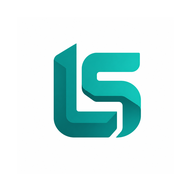
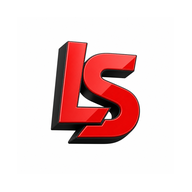
Switch LabSynch brand to Red + Black shading — keep 07 Interlocked 3D LS design [deploy]
- Keep exact 07 Interlocked 3D LS shape, only recolor teal -> red #b91c1c/#ef4444 + black #111111 shading
- All icons regenerated: icon-192/512, favicon 16/32, apple-touch 180, favicon.ico, og-image 1200x630, desktop tray, android mipmap mdpi->xxxhdpi, mobile icons
- Theme colors: manifest theme_color #b91c1c bg #111111, index.html/portal.html meta theme-color red
- styles.css: --brand #b91c1c, --brand-2 #111111, --brand-soft #fee2e2, ink black, gradients red->dark red/black
- Desktop: bubble.html, main.js, renderer index.html teal -> red/black
- Mobile: App.js teal -> red, app.json splash bg red
- Portal hero gradient red/black

Changed region(s): [[0.25, 0.1875, 0.75, 0.75]]

diff --git a/apps/desktop/renderer/index.html b/apps/desktop/renderer/index.html
@@ -5,46 +5,46 @@
 <meta name="viewport" content="width=device-width, initial-scale=1.0">
 <title>LabSynch Alerts</title>
 <style>
-  :root { --teal:#0f766e; --teal-dark:#115e59; --ink:#111827; --soft:#6b7280; --bg:#f3f5f9; --border:#e5e7eb; }
+  :root { --brand:#b91c1c; --brand-dark:#7f1d1d; --ink:#111827; --soft:#6b7280; --bg:#f3f5f9; --border:#e5e7eb; }
   * { box-sizing:border-box; margin:0; padding:0; }
   body { font-family:-apple-system,"Segoe UI",Roboto,sans-serif; background:var(--bg); color:var(--ink); height:100vh; overflow:auto; }
   .wrap { padding:20px 18px; display:flex; flex-direction:column; min-height:100vh; }
-  .brand { font-size:28px; font-weight:800; color:var(--teal); text-align:center; letter-spacing:.5px; }
+  .brand { font-size:28px; font-weight:800; color:var(--brand); text-align:center; letter-spacing:.5px; }
   .tag { font-size:13px; color:var(--soft); text-align:center; margin:4px 0 14px; }
   .card { background:#fff; border:1px solid var(--border); border-radius:16px; padding:16px; margin-bottom:12px; }
   label { display:block; font-size:13px; color:var(--soft); margin:12px 0 6px; font-weight:600; }
   input { width:100%; padding:12px; font-size:15px; border:1px solid var(--border); border-radius:10px; background:var(--bg); color:var(--ink); }
   button { width:100%; padding:13px; font-size:14px; font-weight:700; border:0; border-radius:12px; cursor:pointer; color:#fff; margin-top:10px; }
-  .primary { background:var(--teal); }
+  .primary { background:var(--brand); }
   .primary:disabled { opacity:.6; cursor:default; }
   .danger { background:#dc2626; }
-  .ghost { background:#e2f2f0; color:var(--teal-dark); }
+  .ghost { background:#fee2e2; color:var(--brand-dark); }
   .err { color:#dc2626; font-size:13px; margin-top:4px; }
   .muted { color:var(--soft); font-size:13px; }
   .row { display:flex; align-items:center; justify-content:space-between; }
-  .pill { background:#c7f2ec; color:var(--teal-dark); font-weight:700; font-size:12px; padding:4px 10px; border-radius:999px; }
+  .pill { background:#fecaca; color:var(--brand-dark); font-weight:700; font-size:12px; padding:4px 10px; border-radius:999px; }
   .foot { margin-top:auto; text-align:center; font-size:12px; color:var(--soft); padding-top:14px; line-height:1.6; }
   .tabbar { display:flex; gap:4px; margin-bottom:14px; }
-  .tab { flex:1; text-align:center; font-size:12px; font-weight:700; padding:9px 0; border-radius:10px; color:var(--teal); background:#e2f2f0; cursor:pointer; border:0; margin:0; }
-  .tab.active { background:var(--teal); color:#fff; }
+  .tab { flex:1; text-align:center; font-size:12px; font-weight:700; padding:9px 0; border-radius:10px; color:var(--brand); background:#fee2e2; cursor:pointer; border:0; margin:0; }
+  .tab.active { background:var(--brand); color:#fff; }
   .notif { padding:10px 0; border-bottom:1px solid var(--border); cursor:pointer; }
   .notif:last-child { border-bottom:0; }
   .notif .t { font-size:14px; line-height:1.35; }
   .notif.unread .t { font-weight:700; color:var(--ink); }
   .notif.read .t { font-weight:400; color:var(--soft); }
   .notif .m { font-size:12px; color:#94a3b8; margin-top:3px; }
-  .dot { color:var(--teal); font-weight:800; margin-right:6px; }
+  .dot { color:var(--brand); font-weight:800; margin-right:6px; }
   .sound-opt { display:flex; align-items:center; gap:10px; padding:9px 0; cursor:pointer; }
-  .sound-opt input { width:auto; margin:0; accent-color:var(--teal); }
+  .sound-opt input { width:auto; margin:0; accent-color:var(--brand); }
   .empty { text-align:center; color:var(--soft); font-size:14px; padding:18px 0; }
   .hdr-row { display:flex; justify-content:space-between; align-items:center; margin-bottom:4px; }
-  .linkbtn { background:none; border:0; color:var(--teal); font-weight:700; font-size:13px; cursor:pointer; width:auto; margin:0; padding:0; }
+  .linkbtn { background:none; border:0; color:var(--brand); font-weight:700; font-size:13px; cursor:pointer; width:auto; margin:0; padding:0; }
   .url { font-size:12px; color:#94a3b8; text-align:center; margin-top:8px; word-break:break-all; }
   /* The site link is a real <a> as well as a button, so it still works if the
      IPC bridge is unavailable — the window is never a dead end. */
   a.sitelink { display:block; width:100%; padding:13px; font-size:14px; font-weight:700;
                border-radius:12px; text-align:center; text-decoration:none;
-               background:var(--teal); color:#fff; margin-top:10px; }
+               background:var(--brand); color:#fff; margin-top:10px; }
 </style>
 </head>
 <body>
@@ -217,7 +217,7 @@
           <input id="password" type="password" autocomplete="current-password" placeholder="••••••••">
           <button class="primary" id="btn">Sign in &amp; enable alerts</button>
         </div>
-        <a class="sitelink ghost" style="color:#115e59" href="${esc(SITE)}" target="_blank" rel="noopener"
+        <a class="sitelink ghost" style="color:#7f1d1d" href="${esc(SITE)}" target="_blank" rel="noopener"
            onclick="openSite(); return false;">🔬 Just take me to the LabSynch site</a>
         <div class="foot">Uses the same account as the LabSynch web app.<br>Runs in the system tray and starts with Windows.</div>
       `;

diff --git a/static/app.js b/static/app.js
@@ -1117,7 +1117,7 @@ async function refreshBreakdowns() {
 
 function breakdownCard(b) {
   const passed = isCust() ? "" : `<span class="mono">${esc(b.code)}</span>`;
-  const sn = b.equipment_serial ? `<span class="badge" style="font-family:ui-monospace,monospace;font-size:11px;font-weight:600;background:var(--brand-soft,#ccfbf1);color:var(--brand,#0f766e)">S/N: ${esc(b.equipment_serial)}</span>` : "";
+  const sn = b.equipment_serial ? `<span class="badge" style="font-family:ui-monospace,monospace;font-size:11px;font-weight:600;background:var(--brand-soft,#fee2e2);color:var(--brand,#b91c1c)">S/N: ${esc(b.equipment_serial)}</span>` : "";
   const scope = isCust() ? "" : (b.customer_name ? "<b>" + esc(b.customer_name) + "</b> · " : "");
   return `
     <div class="item" onclick="navigate('breakdownDetail',{id:${b.id}})">
@@ -1168,7 +1168,7 @@ function breakdownDetailHtml(b) {
           ${badge("priority", b.priority)}
         </div>
         <h2 style="font-size:17px;line-height:1.35">${esc(b.equipment_name || "Equipment")}</h2>
-        ${b.equipment_serial ? `<div style="margin-top:4px"><span class="badge" style="font-family:ui-monospace,monospace;font-size:11.5px;font-weight:600;background:var(--brand-soft,#ccfbf1);color:var(--brand,#0f766e)">S/N: ${esc(b.equipment_serial)}</span></div>` : ""}
+        ${b.equipment_serial ? `<div style="margin-top:4px"><span class="badge" style="font-family:ui-monospace,monospace;font-size:11.5px;font-weight:600;background:var(--brand-soft,#fee2e2);color:var(--brand,#b91c1c)">S/N: ${esc(b.equipment_serial)}</span></div>` : ""}
         <div class="item-sub" style="margin-top:6px">${esc(b.customer_name || "")}</div>
       </div>
     </div>
@@ -1328,7 +1328,7 @@ function equipmentCard(e) {
     ? ""
     : `${esc(e.customer_name || "")} · ${esc(e.location_name || e.department_name || "—")}`;
   const snBadge = e.serial_number
-    ? `<span class="badge" style="font-family:ui-monospace,monospace;font-size:11.5px;font-weight:600;background:var(--brand-soft,#ccfbf1);color:var(--brand,#0f766e)">S/N: ${esc(e.serial_number)}</span>`
+    ? `<span class="badge" style="font-family:ui-monospace,monospace;font-size:11.5px;font-weight:600;background:var(--brand-soft,#fee2e2);color:var(--brand,#b91c1c)">S/N: ${esc(e.serial_number)}</span>`
     : `<span class="badge" style="font-size:11.5px;background:var(--bg);color:var(--ink-soft)">No S/N</span>`;
   const details = [
     e.model ? `Model: ${esc(e.model)}` : null,
@@ -1369,7 +1369,7 @@ async function viewEquipmentDetail(v) {
         <div class="card" style="margin-top:8px">
           <div style="display:flex;align-items:center;gap:8px;flex-wrap:wrap">
             <h2 style="font-size:18px;margin:0">${esc(e.name)}</h2>
-            ${e.serial_number ? `<span class="badge" style="font-family:ui-monospace,monospace;font-size:12px;font-weight:600;background:var(--brand-soft,#ccfbf1);color:var(--brand,#0f766e)">S/N: ${esc(e.serial_number)}</span>` : `<span class="badge" style="font-size:12px;background:var(--bg);color:var(--ink-soft)">No S/N</span>`}
+            ${e.serial_number ? `<span class="badge" style="font-family:ui-monospace,monospace;font-size:12px;font-weight:600;background:var(--brand-soft,#fee2e2);color:var(--brand,#b91c1c)">S/N: ${esc(e.serial_number)}</span>` : `<span class="badge" style="font-size:12px;background:var(--bg);color:var(--ink-soft)">No S/N</span>`}
           </div>
           <div class="item-sub mono" style="margin-top:4px">${esc(e.model ? "Model: " + e.model : "No model specified")}</div>
           <div class="item-meta" style="margin-top:8px">
@@ -1408,7 +1408,7 @@ async function viewOrg(v, tab) {
     ? (isAdmin() ? `<button class="btn btn-primary" onclick="openCustomerEditor(false)">＋ Add organization</button>` : "")
     : (isTech() ? `<button class="btn btn-primary" onclick="openLocationEditor(false)">＋ Add location/department</button>` : "");
   v.innerHTML = `
-    <div class="hero" style="background:linear-gradient(135deg,#134e4a,#0f766e)">
+    <div class="hero" style="background:linear-gradient(135deg,#450a0a,#b91c1c)">
       <h2>Organizations</h2>
       <p>Organizations and locations/departments in one place.</p>
     </div>

diff --git a/static/styles.css b/static/styles.css
@@ -10,12 +10,12 @@
 :root {
   --bg: #f3f5f9;
   --card: #ffffff;
-  --ink: #0f172a;
-  --ink-soft: #64748b;
-  --line: #e2e8f0;
-  --brand: #0f766e;
-  --brand-2: #14b8a6;
-  --brand-soft: #ccfbf1;
+  --ink: #111111;
+  --ink-soft: #6b7280;
+  --line: #e5e7eb;
+  --brand: #b91c1c;
+  --brand-2: #111111;
+  --brand-soft: #fee2e2;
   --accent: #f59e0b;
   --danger: #dc2626;
   --danger-soft: #fee2e2;
@@ -206,7 +206,7 @@ main#view { flex: 1; overflow-y: auto; padding: 14px 14px calc(var(--nav-h) + 20
 
 /* ---------- Hero / greeting ---------- */
 .hero {
-  background: linear-gradient(135deg, #0f766e, #0d9488);
+  background: linear-gradient(135deg, #b91c1c, #7f1d1d);
   color: #fff; border-radius: 18px; padding: 18px; box-shadow: var(--shadow-lg);
   position: relative; overflow: hidden;
 }
@@ -308,7 +308,7 @@ main#view { flex: 1; overflow-y: auto; padding: 14px 14px calc(var(--nav-h) + 20
 /* ---------- Login ---------- */
 .login-screen {
   min-height: 100dvh; display: flex; align-items: center; justify-content: center;
-  padding: 24px; background: linear-gradient(160deg, #0f766e 0%, #134e4a 60%, #0c3b38 100%);
+  padding: 24px; background: linear-gradient(160deg, #b91c1c 0%, #450a0a 60%, #111111 100%);
   overflow-y: auto;
 }
 .login-screen.align-top { align-items: flex-start; }
@@ -340,9 +340,9 @@ main#view { flex: 1; overflow-y: auto; padding: 14px 14px calc(var(--nav-h) + 20
 .menu-item.danger { color: var(--danger); }
 .menu-item.create-new {
   border: 1.5px dashed var(--brand); background: var(--brand-soft);
-  color: #0f766e;
+  color: #b91c1c;
 }
-.menu-item.create-new .mi-arrow { color: #0f766e; font-weight: 800; }
+.menu-item.create-new .mi-arrow { color: #b91c1c; font-weight: 800; }
 .section-role { color: var(--ink-soft); font-size: 12px; }
 
 /* ---------- Empty state ---------- */
@@ -526,7 +526,7 @@ main#view { flex: 1; overflow-y: auto; padding: 14px 14px calc(var(--nav-h) + 20
   .side-create-btn {
     width: 100%; padding: 11px 12px; border-radius: 12px; cursor: pointer;
     border: 1.5px dashed var(--brand); background: var(--brand-soft);
-    color: #0f766e; font-weight: 700; font-size: 13.5px; text-align: left;
+    color: #b91c1c; font-weight: 700; font-size: 13.5px; text-align: left;
     transition: background .12s ease, transform .1s ease;
   }
   .side-create-btn:hover { background: #b8f3e6; transform: translateY(-1px); }
@@ -578,7 +578,7 @@ main#view { flex: 1; overflow-y: auto; padding: 14px 14px calc(var(--nav-h) + 20
   .login-brand {
     display: flex; flex-direction: column; justify-content: center;
     padding: 48px 42px; color: #fff;
-    background: linear-gradient(160deg, #0f766e, #0d9488);
+    background: linear-gradient(160deg, #b91c1c, #7f1d1d);
   }
   .login-brand .login-logo { text-align: left; font-size: 56px; }
   .login-brand .login-title { text-align: left; font-size: 30px; color: #fff; }

diff --git a/static/portal.html b/static/portal.html
@@ -4,7 +4,7 @@
 <head>
   <meta charset="UTF-8">
   <meta name="viewport" content="width=device-width, initial-scale=1.0, viewport-fit=cover">
-  <meta name="theme-color" content="#0f766e">
+  <meta name="theme-color" content="#b91c1c">
   <title>Report an issue — LabSynch</title>
   <link rel="icon" href="/favicon.ico" sizes="any">
   <link rel="icon" href="/icons/icon.svg" type="image/svg+xml">
@@ -14,7 +14,7 @@
   <style>
     :root {
       --bg: #f3f5f9; --card: #fff; --ink: #0f172a; --soft: #64748b; --line: #e2e8f0;
-      --brand: #0f766e; --brand2: #14b8a6; --brand-soft: #ccfbf1; --danger: #dc2626;
+      --brand: #b91c1c; --brand2: #111111; --brand-soft: #fee2e2; --danger: #dc2626;
       --danger-soft: #fee2e2; --ok: #16a34a; --ok-soft: #dcfce7; --info: #2563eb; --info-soft: #dbeafe;
     }
     * { box-sizing: border-box; margin: 0; padding: 0; -webkit-tap-highlight-color: transparent; }
@@ -24,7 +24,7 @@
     }
     .wrap { max-width: 520px; margin: 0 auto; padding: 16px 16px 40px; }
     .hero {
-      background: linear-gradient(135deg, #0f766e, #0d9488); color: #fff;
+      background: linear-gradient(135deg, #b91c1c, #7f1d1d); color: #fff;
       border-radius: 18px; padding: 22px 20px; box-shadow: 0 12px 32px rgba(15,118,110,.28);
     }
     .hero .brand { font-size: 12px; font-weight: 700; letter-spacing: .6px; opacity: .9; }

diff --git a/apps/desktop/bubble.html b/apps/desktop/bubble.html
@@ -10,7 +10,7 @@
     box-sizing: border-box;
     width: 344px; height: 96px; margin: 6px; padding: 10px 12px;
     background: #ffffff;
-    border: 2px solid #0f766e;
+    border: 2px solid #b91c1c;
     border-radius: 16px;
     box-shadow: 0 12px 40px rgba(15, 23, 42, .35);
     display: flex; gap: 10px; align-items: flex-start;
@@ -24,7 +24,7 @@
   #bell { font-size: 24px; line-height: 1.2; animation: shake .6s ease-in-out infinite; }
   @keyframes shake { 0%,100% { transform: rotate(-10deg);} 50% { transform: rotate(10deg);} }
   #content { flex: 1; min-width: 0; }
-  #title { font-weight: 800; color: #0f766e; font-size: 12.5px; letter-spacing: .4px; }
+  #title { font-weight: 800; color: #b91c1c; font-size: 12.5px; letter-spacing: .4px; }
   #text { margin-top: 2px; max-height: 36px; overflow: hidden; display: -webkit-box;
           -webkit-line-clamp: 2; -webkit-box-orient: vertical; }
   #row { margin-top: 7px; display: flex; gap: 8px; }
@@ -32,7 +32,7 @@
     border: none; border-radius: 999px; padding: 4px 14px; cursor: pointer;
     font: 700 12px "Segoe UI", system-ui, sans-serif;
   }
-  #open { background: #0f766e; color: #fff; }
+  #open { background: #b91c1c; color: #fff; }
   #close {
     position: absolute; top: 8px; right: 10px; background: transparent;
     color: #94a3b8; font-size: 14px; padding: 0 4px;

diff --git a/apps/desktop/main.js b/apps/desktop/main.js
@@ -407,12 +407,12 @@ function showLoadFailure(target, title, message, retryUrl) {
          font:15px/1.55 -apple-system,"Segoe UI",Roboto,sans-serif; }
   .box { max-width:520px; margin:0 auto; padding:44px 26px; text-align:center; }
   .logo { font-size:40px; }
-  h1 { font-size:20px; margin:12px 0 6px; color:#0f766e; }
+  h1 { font-size:20px; margin:12px 0 6px; color:#b91c1c; }
   p { color:#6b7280; font-size:14px; margin:0 0 20px; word-break:break-word; }
   a.btn { display:block; padding:13px; border-radius:12px; font-weight:700;
           font-size:14px; text-decoration:none; margin-bottom:10px; }
-  a.primary { background:#0f766e; color:#fff; }
-  a.ghost { background:#e2f2f0; color:#115e59; }
+  a.primary { background:#b91c1c; color:#fff; }
+  a.ghost { background:#fee2e2; color:#7f1d1d; }
   .url { font-size:12px; color:#94a3b8; margin-top:14px; word-break:break-all; }
 </style></head>
 <body><div class="box">

diff --git a/static/index.html b/static/index.html
@@ -7,7 +7,7 @@
   <meta http-equiv="Pragma" content="no-cache">
   <meta http-equiv="Expires" content="0">
   <meta name="viewport" content="width=device-width, initial-scale=1.0, viewport-fit=cover">
-  <meta name="theme-color" content="#0f766e">
+  <meta name="theme-color" content="#b91c1c">
   <title>LabSynch — Complaints &amp; Breakdowns</title>
   <meta name="description" content="LabSynch — Equipment Complaints & Breakdowns management. Log complaints, sync teams, resolve faster.">
   <link rel="icon" href="/favicon.ico" sizes="any">

diff --git a/mobile/App.js b/mobile/App.js
@@ -39,7 +39,7 @@ import * as Notifications from "expo-notifications";
 const API_BASE = Constants.expoConfig?.extra?.apiBase || "https://labcare.insforge.site";
 
 const COLORS = {
-  teal: "#0f766e",
+  teal: "#b91c1c",
   tealDark: "#115e59",
   ink: "#111827",
   inkSoft: "#6b7280",
